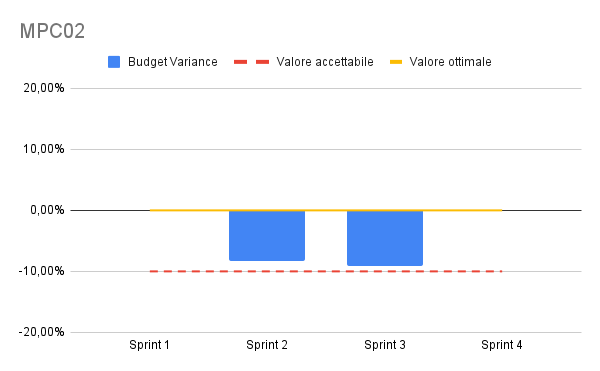
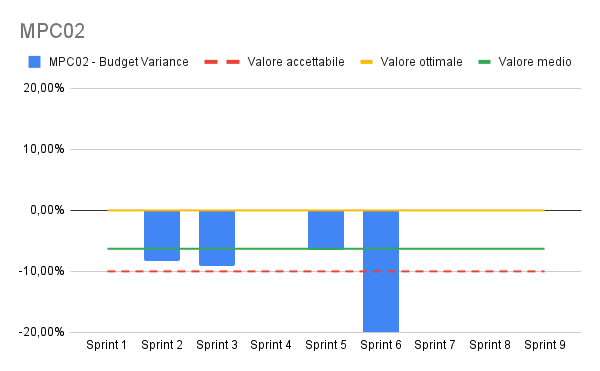
update

diff --git a/PB/Piano di qualifica/sec/verifica.tex b/PB/Piano di qualifica/sec/verifica.tex
@@ -11,20 +11,23 @@ Si analizzano qui le metriche:
 \label{s:mpc02}
 La \textit{Budget Variance} confronta il costo effettivo del lavoro completato fino a un certo punto nel tempo con il costo pianificato per quel lavoro.
 Il valore negativo riportato in Figura \ref{fig:mpc02} indica che il costo effettivo è superiore al \textit{budget} pianificato.
-Il valore riportato rientra nel margine di accettabilità stabilito. \\
+Il valore medio riportato rientra nel margine di accettabilità stabilito. \\
 Il gruppo ritiene che, nella prima fase RTB, lo sforamento del \textit{budget} sia dovuto alla generale inesperienza dei vari membri nella gestione di un progetto e nell'uso delle tecnologie, che ha portato alla necessità di incrementare il tempo di lavoro.\\
 Nella seconda fase il gruppo ha individuato delle problematiche che non erano note nella fase precedente, questo grazie all'esperienza maturata durante lo sviluppo. 
 Tali problematiche hanno aumentato le attività da svolgere per mettere in atto operazioni di correzione, questo ha portato ad uno sforamento del \textit{budget}.
+In particolare durante il sesto \textit{sprint}, il gruppo si è reso conto di aver sottostimato le ore necessarie per svolgere le attività di programmazione.
+La pianificazione del lavoro negli \textit{sprint} successivi è stata quindi rivista adeguando le ore necessarie alla programmazione con quandto sperimentato nello \textit{sprint} numero 6.
 
 \begin{figure}[htbp]
     \centering
-    \includegraphics[width=0.7\textwidth]{img/MPC02.png}
+    \includegraphics[width=0.8\textwidth]{img/MPC02.png}
     \caption{MPC02 - Budget Variance}
     \label{fig:mpc02}
 \end{figure}
 
 
 \newpage
+
 \subsection{MPC04 - Budgeted Cost of Work Scheduled}
 \label{s:mpc04}
 Rappresenta il costo del lavoro pianificato per essere completato entro una data specifica nel progetto.\\
@@ -45,6 +48,8 @@ Le problematiche riscontrate durante lo sviluppo sono quindi state correttamente
     \caption{MPC04 - Budgeted Cost of Work Scheduled}
     \label{fig:mpc04}
 \end{figure}
+
+
 
 \subsection{MPC06 - Actual Cost of Work Performed}
 \label{s:mpc06}
